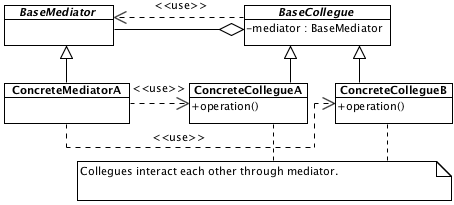
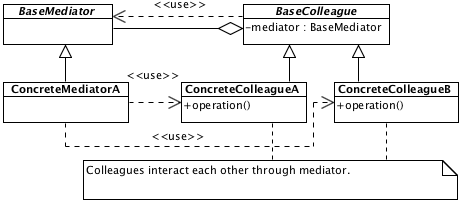
fix naming

diff --git a/test/mediator-tests.js b/test/mediator-tests.js
@@ -1,11 +1,11 @@
-const { HelloMediator, ButtonCollegue, HelloButtonCollegue, SaveButtonCollegue, TextFieldCollegue } = require('../patterns/mediator/mediator');
+const { HelloMediator, ButtonColleague, HelloButtonColleague, SaveButtonColleague, TextFieldColleague } = require('../patterns/mediator/mediator');
 
 QUnit.test("HelloMediator()", function (assert) {
 	const result = new HelloMediator();
 	
-	assert.ok(result.helloButton instanceof HelloButtonCollegue);
-	assert.ok(result.saveButton instanceof SaveButtonCollegue);
-	assert.ok(result.textField instanceof TextFieldCollegue);
+	assert.ok(result.helloButton instanceof HelloButtonColleague);
+	assert.ok(result.saveButton instanceof SaveButtonColleague);
+	assert.ok(result.textField instanceof TextFieldColleague);
 });
 
 QUnit.test("HelloMediator.prototype.setText(text)", function (assert) {
@@ -44,55 +44,55 @@ QUnit.test("HelloMediator.prototype.notify(event, target)", function (assert) {
 	assert.strictEqual(helloMediator.saveButton.enabled, false);
 });
 
-QUnit.test("ButtonCollegue(baseMediator)", function (assert) {
+QUnit.test("ButtonColleague(baseMediator)", function (assert) {
 	const helloMediator = new HelloMediator();
 
-	const result = new ButtonCollegue(helloMediator);
+	const result = new ButtonColleague(helloMediator);
 
 	assert.strictEqual(result.mediator, helloMediator);
 	assert.strictEqual(result.enabled, true);
 });
 
-QUnit.test("HelloButtonCollegue.prototype.clickHandler()", function (assert) {
+QUnit.test("HelloButtonColleague.prototype.clickHandler()", function (assert) {
 	const helloMediator = new HelloMediator();
-	const collegue = new HelloButtonCollegue(helloMediator);
+	const colleague = new HelloButtonColleague(helloMediator);
 
-	collegue.clickHandler();
+	colleague.clickHandler();
 
 	assert.strictEqual(helloMediator.textField.text, "Hello!");
 	assert.strictEqual(helloMediator.saveButton.enabled, true);
 });
 
-QUnit.test("TextFieldCollegue()", function (assert) {
+QUnit.test("TextFieldColleague()", function (assert) {
 	const helloMediator = new HelloMediator();
-	const collegue = new TextFieldCollegue(helloMediator);
-	helloMediator.textField = collegue;
+	const colleague = new TextFieldColleague(helloMediator);
+	helloMediator.textField = colleague;
 
-	assert.strictEqual(collegue.text, "");
-	assert.strictEqual(collegue.mediator, helloMediator);
+	assert.strictEqual(colleague.text, "");
+	assert.strictEqual(colleague.mediator, helloMediator);
 });
 
-QUnit.test("TextFieldCollegue.prototype.changedHandler()", function (assert) {
+QUnit.test("TextFieldColleague.prototype.changedHandler()", function (assert) {
 	const helloMediator = new HelloMediator();
-	const collegue = new TextFieldCollegue(helloMediator);
-	helloMediator.textField = collegue;
+	const colleague = new TextFieldColleague(helloMediator);
+	helloMediator.textField = colleague;
 
-	collegue.text = "";
-	collegue.changedHandler();
+	colleague.text = "";
+	colleague.changedHandler();
 	assert.strictEqual(helloMediator.saveButton.enabled, false);
 
-	collegue.text = "test";
-	collegue.changedHandler();
+	colleague.text = "test";
+	colleague.changedHandler();
 	assert.strictEqual(helloMediator.saveButton.enabled, true);
 });
 
-QUnit.test("TextFieldCollegue.prototype.setText(text)", function (assert) {
+QUnit.test("TextFieldColleague.prototype.setText(text)", function (assert) {
 	const helloMediator = new HelloMediator();
-	const collegue = new TextFieldCollegue(helloMediator);
-	helloMediator.textField = collegue;
+	const colleague = new TextFieldColleague(helloMediator);
+	helloMediator.textField = colleague;
 	const actualText = "test";
 
-	collegue.setText(actualText);
+	colleague.setText(actualText);
 	assert.strictEqual(helloMediator.saveButton.enabled, true);
-	assert.strictEqual(collegue.text, actualText);
+	assert.strictEqual(colleague.text, actualText);
 });

diff --git a/patterns/mediator/mediator.js b/patterns/mediator/mediator.js
@@ -9,9 +9,9 @@ class BaseMediator {
 	}
 }
 
-class BaseCollegue {
+class BaseColleague {
 	constructor(baseMediator){
-		if(new.target === BaseCollegue)
+		if(new.target === BaseColleague)
 			throw new Error("Can't instantiate abstract type.");
 
 		if(!(baseMediator instanceof BaseMediator))
@@ -25,9 +25,9 @@ class HelloMediator extends BaseMediator {
 	constructor(){
 		super();
 
-		this.helloButton = new HelloButtonCollegue(this);
-		this.saveButton = new SaveButtonCollegue(this);
-		this.textField = new TextFieldCollegue(this);
+		this.helloButton = new HelloButtonColleague(this);
+		this.saveButton = new SaveButtonColleague(this);
+		this.textField = new TextFieldColleague(this);
 	}
 
 	notify(event, target){
@@ -50,24 +50,24 @@ class HelloMediator extends BaseMediator {
 	}
 }
 
-class ButtonCollegue extends BaseCollegue {
+class ButtonColleague extends BaseColleague {
 	constructor(baseMediator){
 		super(baseMediator);
 		this.enabled = true;
 	}
 }
 
-class HelloButtonCollegue extends ButtonCollegue {
+class HelloButtonColleague extends ButtonColleague {
 	clickHandler(){
 		this.mediator.notify("helloButtonClicked", this);
 	}
 }
 
-class SaveButtonCollegue extends ButtonCollegue {
+class SaveButtonColleague extends ButtonColleague {
 	
 }
 
-class TextFieldCollegue extends BaseCollegue {
+class TextFieldColleague extends BaseColleague {
 	constructor(baseMediator){
 		super(baseMediator);
 		this.text = "";
@@ -85,10 +85,10 @@ class TextFieldCollegue extends BaseCollegue {
 
 module.exports = {
 	BaseMediator,
-	BaseCollegue,
+	BaseColleague,
 	HelloMediator,
-	ButtonCollegue,
-	HelloButtonCollegue,
-	SaveButtonCollegue,
-	TextFieldCollegue
+	ButtonColleague,
+	HelloButtonColleague,
+	SaveButtonColleague,
+	TextFieldColleague
 };
